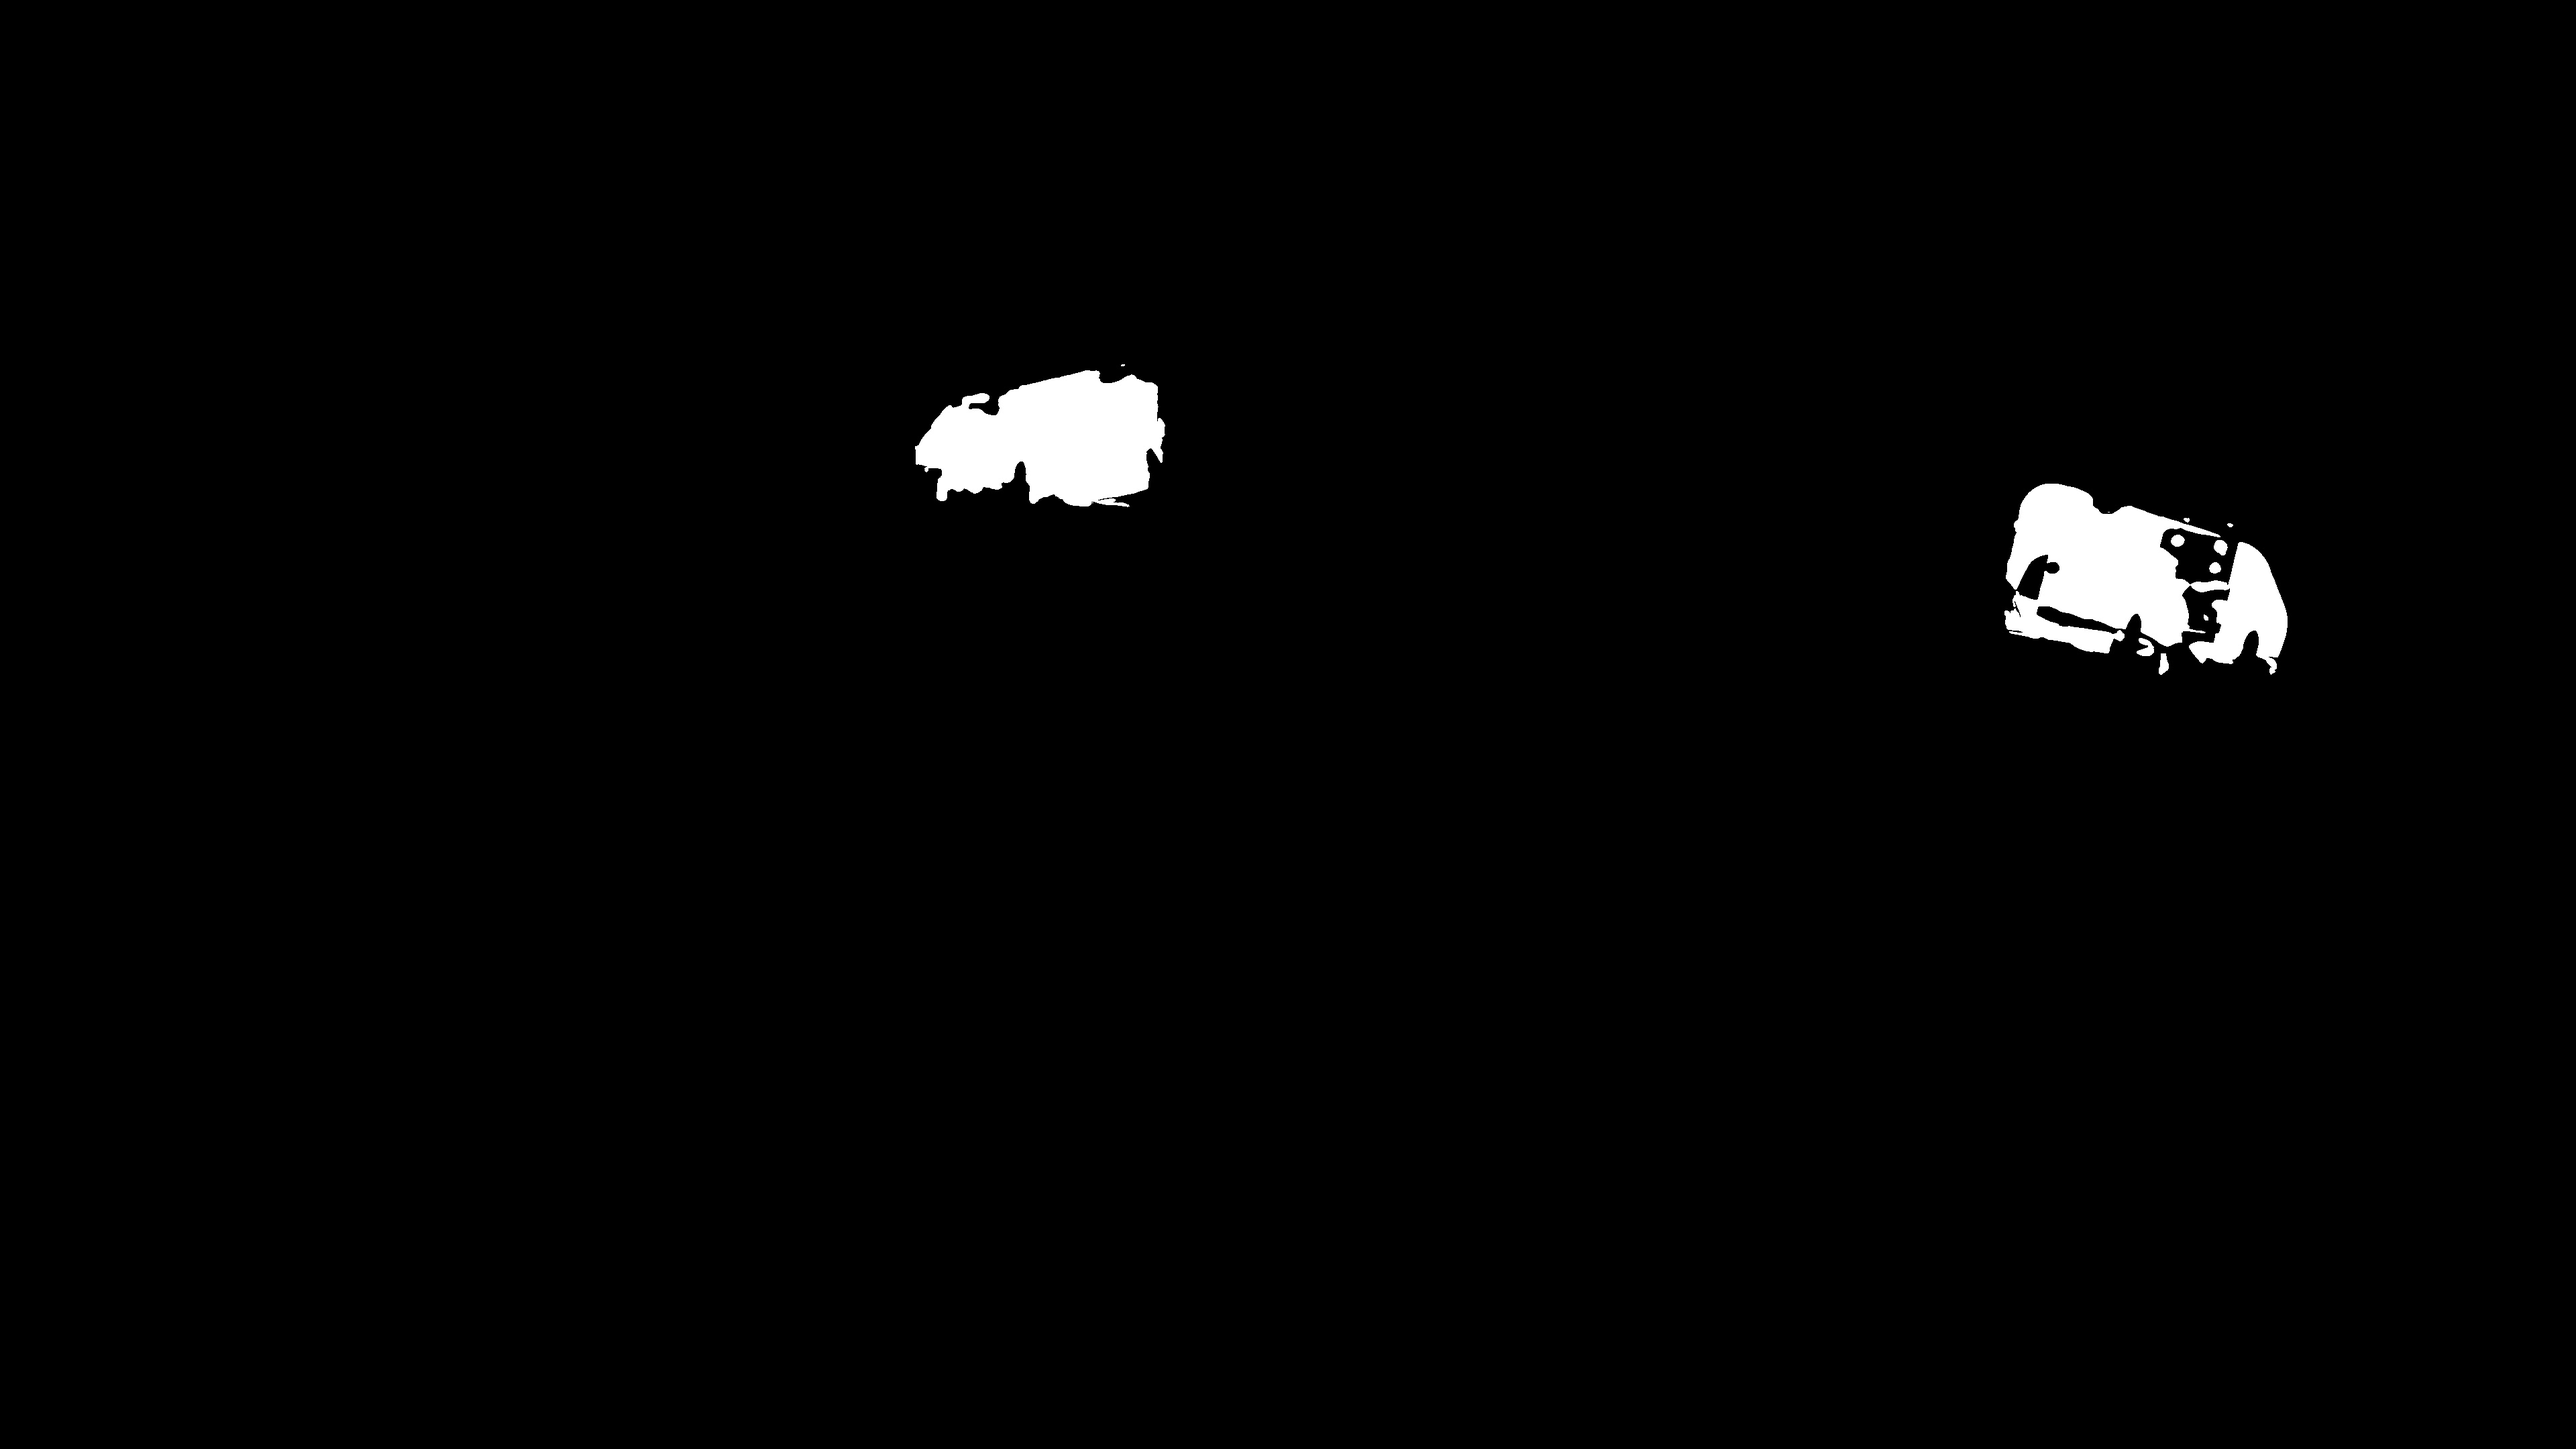
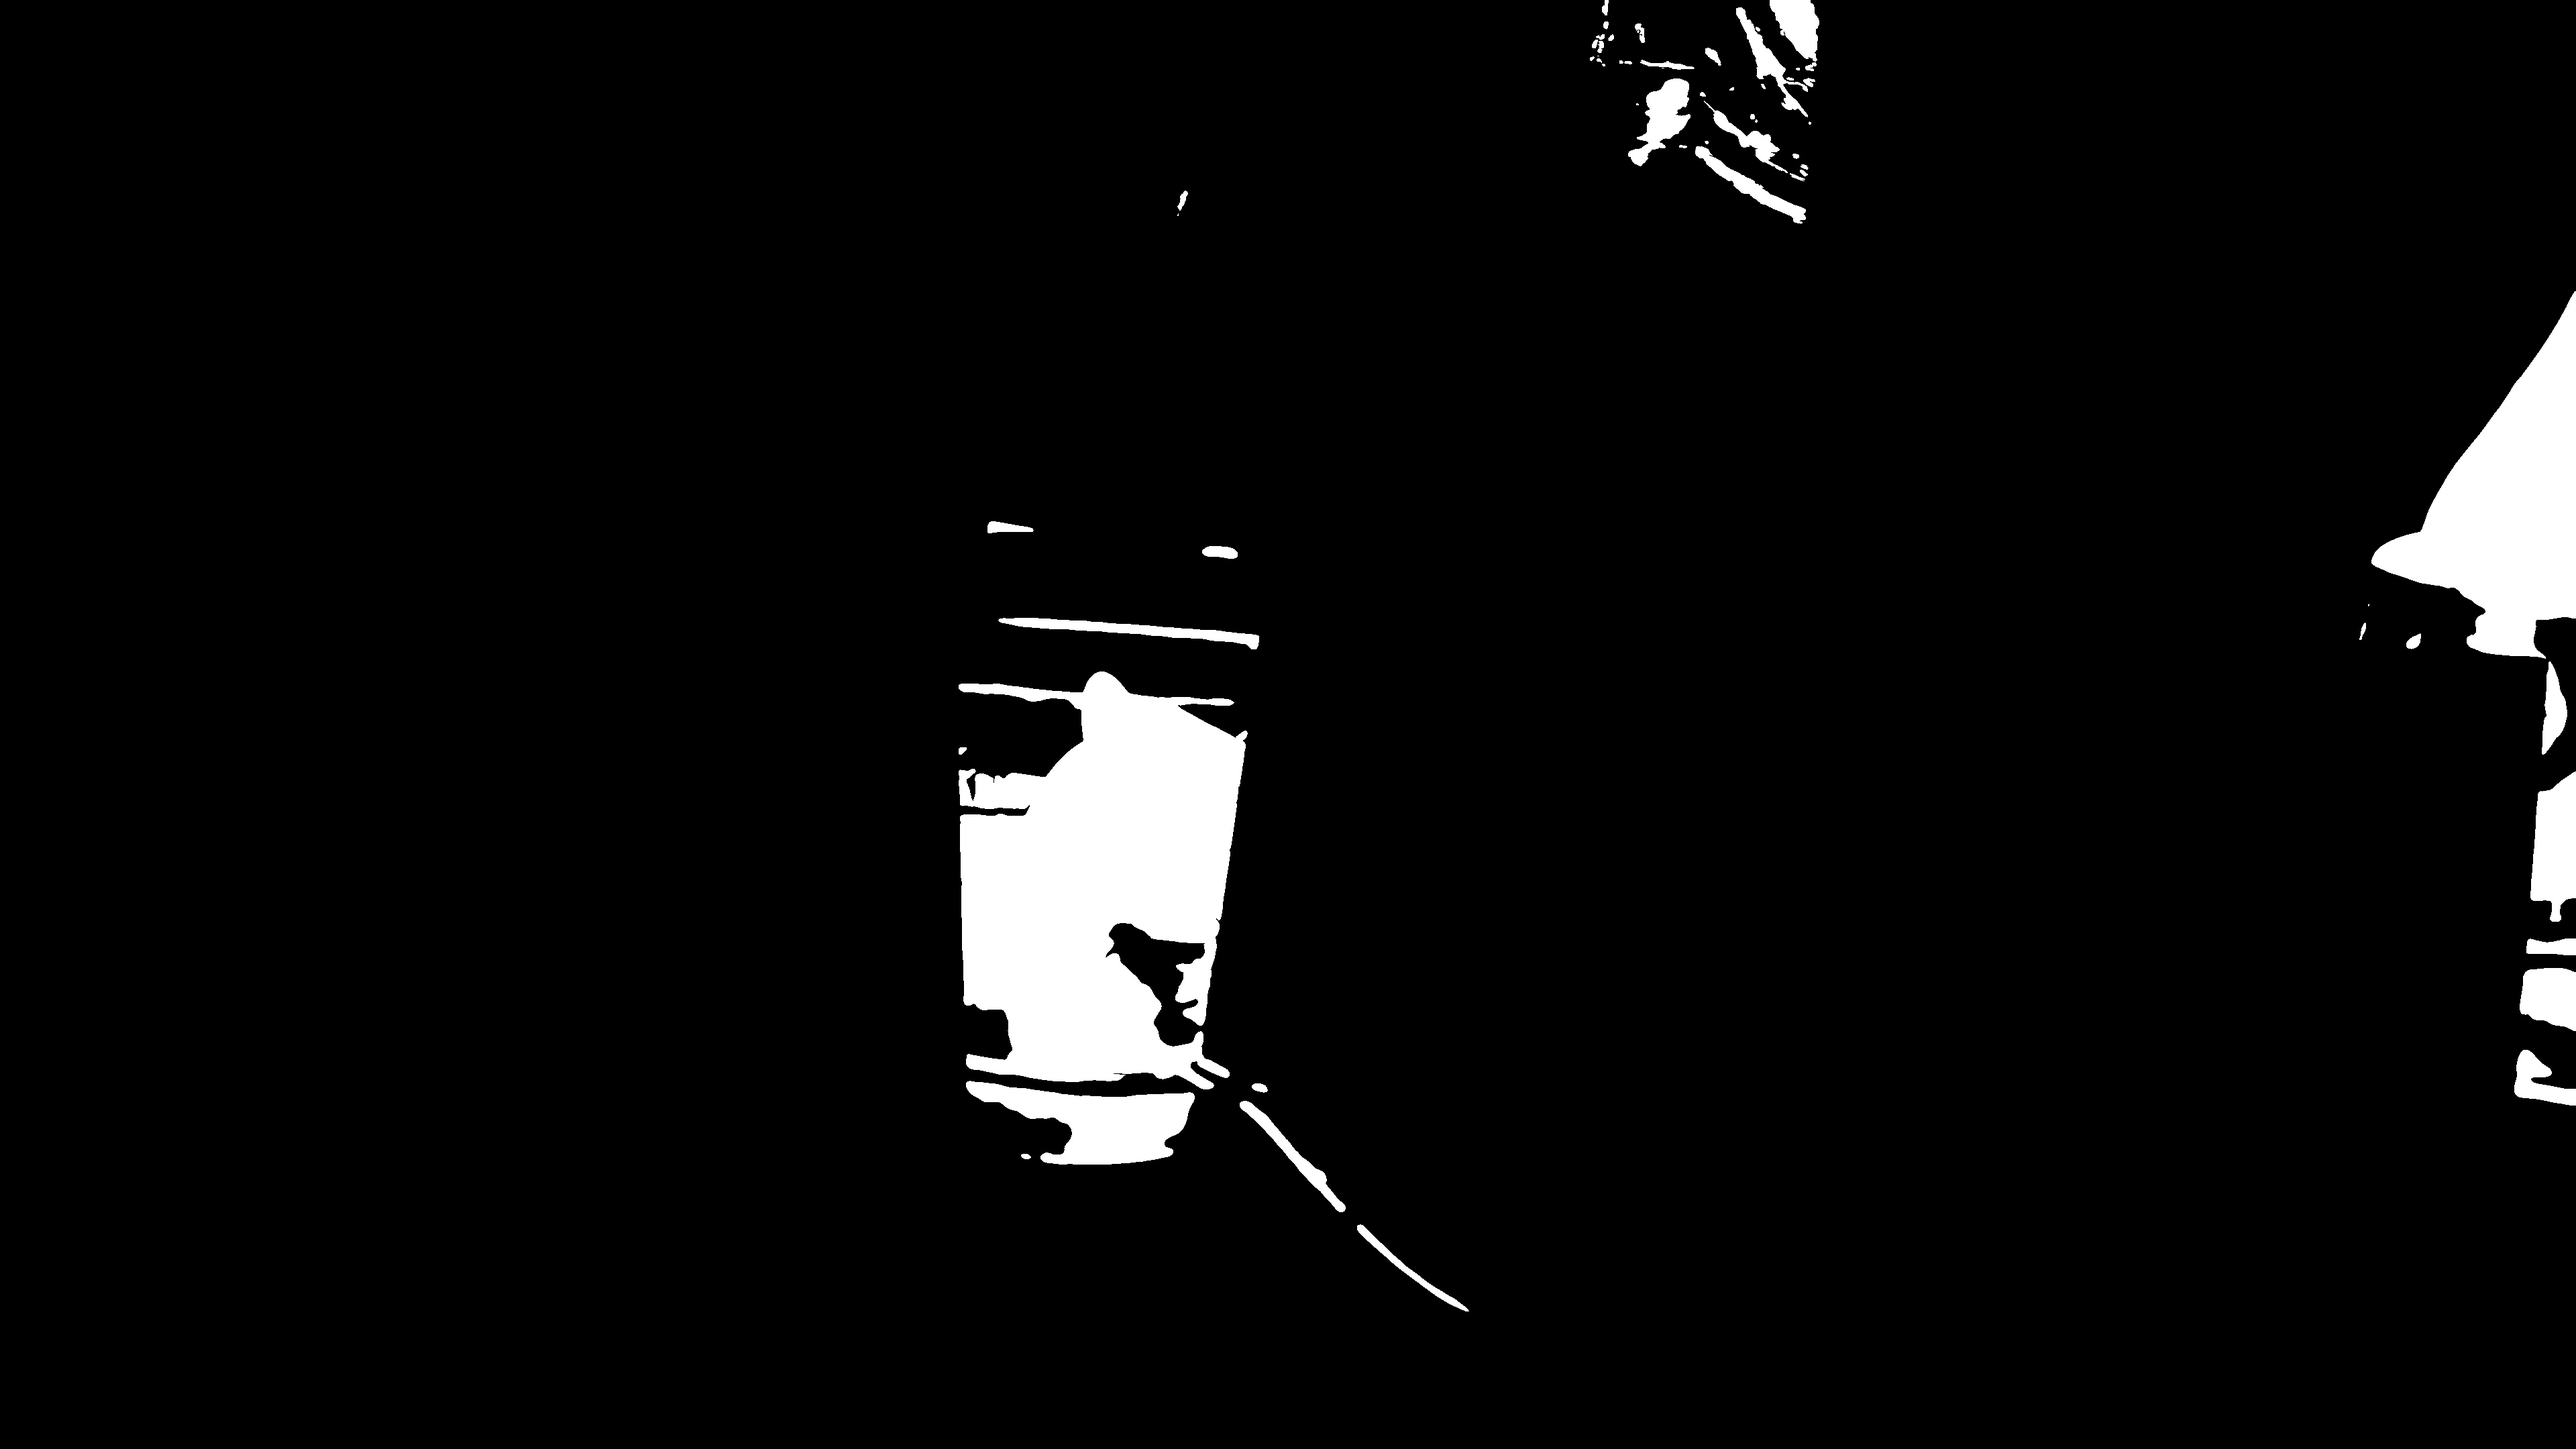
mask generation update

diff --git a/Image-Masking/maskGeneration.py b/Image-Masking/maskGeneration.py
@@ -86,12 +86,23 @@ with dai.Device(pipeline) as device:
             ctrl = dai.CameraControl()
             ctrl.setManualFocus(lensPos)
             controlQueue.send(ctrl)
+        elif key == ord('t'):
+            print("Autofocus trigger (and disable continuous)")
+            ctrl = dai.CameraControl()
+            ctrl.setAutoFocusMode(dai.CameraControl.AutoFocusMode.AUTO)
+            ctrl.setAutoFocusTrigger()
+            controlQueue.send(ctrl)
         elif key == ord('q'):
             break
         elif key == ord('s'):
             photoName = "STANDARD"
             # dirName = "mask_pics"
             ctrl = dai.CameraControl()
+
+            # autofocus contro
+            # ctrl.setAutoFocusMode(dai.CameraControl.AutoFocusMode.AUTO)
+            # ctrl.setAutoFocusTrigger()
+
             ctrl.setCaptureStill(True)
             qControl.send(ctrl)
             print("Sent 'still' event to the camera")
@@ -103,37 +114,37 @@ with dai.Device(pipeline) as device:
             qControl.send(ctrl)
             print("Sent 'still' event to the camera")
         elif key == ord('g'):
-            partImg = cv.imread('mask_pics\\STANDARD.jpg') # ?? img
-            noPartImg = cv.imread('mask_pics\\NONE.jpg')        # ?? no
+            partImg = cv.imread('mask_pics\\STANDARD.jpg') 
+            noPartImg = cv.imread('mask_pics\\NONE.jpg')
             #Subtracting the two images to find the part area
-            subtractOG = cv.cvtColor(partImg,cv.COLOR_BGR2GRAY) - cv.cvtColor(noPartImg,cv.COLOR_BGR2GRAY)
+            subtractOG = cv.cvtColor(partImg) - cv.cvtColor(noPartImg)
 
-            #Applying filters on image
-            alpha = 3 # Contrast control (rec 1-3)
-            beta = -300 # Brightness control (rec -300 <-> 300)
-            subtractOG = cv.convertScaleAbs(subtractOG, alpha=alpha, beta=beta)
-            subtractOG = cv.fastNlMeansDenoising(subtractOG, None, 40, 7, 15)
-            subtractOG = cv.fastNlMeansDenoising(subtractOG, None, 40, 7, 15)
+            # #Applying filters on image
+            # alpha = 3 # Contrast control (rec 1-3)
+            # beta = -300 # Brightness control (rec -300 <-> 300)
+            # subtractOG = cv.convertScaleAbs(subtractOG, alpha=alpha, beta=beta)
+            # subtractOG = cv.fastNlMeansDenoising(subtractOG, None, 40, 7, 15)
+            # subtractOG = cv.fastNlMeansDenoising(subtractOG, None, 40, 7, 15)
 
-            #Black and white configuration
-            subtractOG = cv.bitwise_not(subtractOG)
-            subtractOG[subtractOG < 10] = 0
-            subtractOG[subtractOG != 0] = 255
+            # #Black and white configuration
+            # subtractOG = cv.bitwise_not(subtractOG)
+            # subtractOG[subtractOG < 10] = 0
+            # subtractOG[subtractOG != 0] = 255
 
-            #Filling gaps
-            thresh, imgThresh = cv.threshold(subtractOG,200,255,cv.THRESH_BINARY)
-            fillMask = imgThresh.copy()
-            height, width = imgThresh.shape[:2]
-            mask = np.zeros((height+2,width+2),np.uint8)
-            cv.floodFill(fillMask, mask,(0,0),(255,255,255))
+            # #Filling gaps
+            # thresh, imgThresh = cv.threshold(subtractOG,200,255,cv.THRESH_BINARY)
+            # fillMask = imgThresh.copy()
+            # height, width = imgThresh.shape[:2]
+            # mask = np.zeros((height+2,width+2),np.uint8)
+            # cv.floodFill(fillMask, mask,(0,0),(255,255,255))
 
-            fillMask = cv.bitwise_not(fillMask)
+            # fillMask = cv.bitwise_not(fillMask)
             
-            #Filling gaps
-            subtractOG = subtractOG+fillMask
-            img = cv.resize(subtractOG, (0,0), fx = 0.2, fy = 0.2)
+            # #Filling gaps
+            # subtractOG = subtractOG+fillMask
+            # img = cv.resize(subtractOG, (0,0), fx = 0.2, fy = 0.2)
             cv.imwrite("mask_pics/MASK.jpg",subtractOG)
-            cv.imshow("MASK",img)
+            cv.imshow("MASK",subtractOG)
             cv.waitKey(0)
         elif key == ord('q'):
             break

diff --git a/Image-Masking/testii.py b/Image-Masking/testii.py
@@ -5,10 +5,12 @@ import depthai as dai
 import numpy as np
 
 
-partImg = cv.imread('mask_pics\\STANDARD.jpg') # ?? img
-noPartImg = cv.imread('mask_pics\\NONE.jpg')        # ?? no
+partImg = cv.imread('mask_pics\\STANDARD1.jpg') # ?? img
+noPartImg = cv.imread('mask_pics\\NONE1.jpg')        # ?? no
 #Subtracting the two images to find the part area
-subtractOG = cv.cvtColor(partImg,cv.COLOR_BGR2GRAY) - cv.cvtColor(noPartImg,cv.COLOR_BGR2GRAY)
+# subtractOG = cv.cvtColor(partImg,cv.COLOR_BGR2GRAY) - cv.cvtColor(noPartImg,cv.COLOR_BGR2GRAY)
+subtractOG = partImg - noPartImg
+# subtractOG = cv.cvtColor(subtractOG,cv.COLOR_BGR2GRAY)
 
 
 #Applying filters on image
@@ -34,6 +36,7 @@ fillMask = cv.bitwise_not(fillMask)
 
 #Filling gaps
 subtractOG = subtractOG+fillMask
+
 
 img = cv.resize(subtractOG, (0,0), fx = 0.2, fy = 0.2)
 # cv.imwrite("mask_pics/MASK.jpg",subtractOG)
